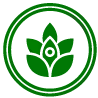
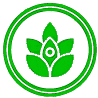
Morris_PT 0016
Changed icon colors to Morris Green, modified zen_water_rocks_3 to cut
top down, re-arranged icons.

Changed region(s): [[0.0306, 0.0306, 0.9796, 1.0], [0.2449, 0.2143, 0.7653, 0.7959]]

diff --git a/projects/morris_PT/index.html b/projects/morris_PT/index.html
@@ -94,14 +94,14 @@
                         </a>
                       </div>
                       <div class="col-sm-4">
-                        <a href="#about" class="btn page-scroll highlight"><img src="img/icon_1_1.png">
-                        <p>More</p>
-                      </a>
-                      </div>
-                      <div class="col-sm-4">
                         <a href="#appointment" class="btn page-scroll highlight"><img src="img/icon_3_1.png">
                           <p>Schedule</p>
                         </a>
+                      </div>
+                      <div class="col-sm-4">
+                        <a href="#about" class="btn page-scroll highlight"><img src="img/icon_4.png">
+                        <p>Blog</p>
+                      </a>
                       </div>
                     </div>
                 </div>
